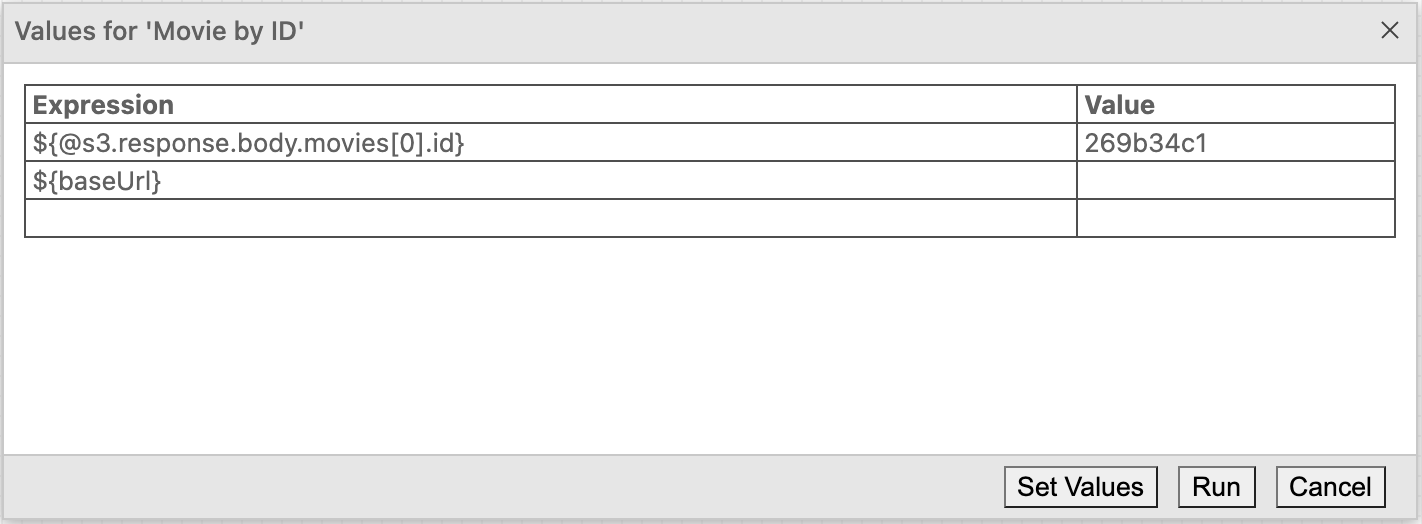
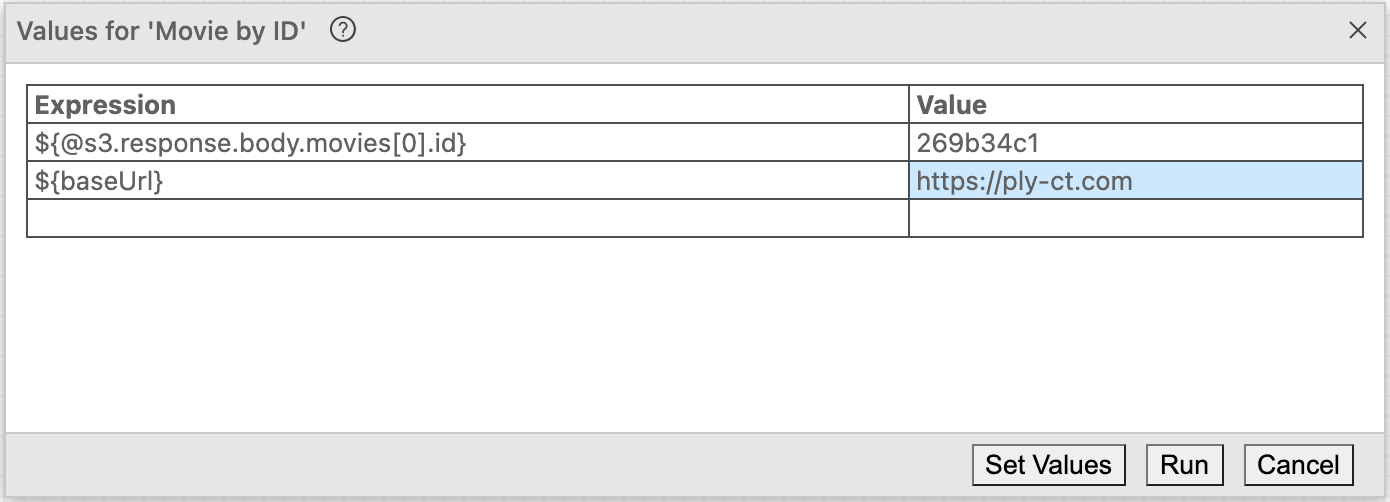
vscode-ply #69

diff --git a/src/flows.ts b/src/flows.ts
@@ -106,10 +106,20 @@ export class FlowSuite extends Suite<Step> {
     }
 
     async runSteps(steps: Step[], runOptions?: RunOptions): Promise<Result[]> {
-        const results: Result[] = [];
+
+        // flow-configured values
+        if (this.plyFlow.flow.attributes?.values) {
+            const rows = JSON.parse(this.plyFlow.flow.attributes?.values);
+            for (const row of rows) {
+                (this.runtime.values as any)[row[0]] = row[1];
+            }
+        }
+
+        // run values override even flow-configured vals
         if (runOptions?.values) {
             this.runtime.values = { ...this.runtime.values, ...runOptions.values };
         }
+
         const requestSuite = new Suite<Request>(
             this.plyFlow.name,
             'request',
@@ -130,6 +140,8 @@ export class FlowSuite extends Suite<Step> {
             this.runtime.results.expected.write('');
             runOptions.createExpected = true;
         }
+
+        const results: Result[] = [];
         // emit start event for synthetic flow
         this.emitter?.emit('flow', this.plyFlow.flowEvent('start', 'flow', this.plyFlow.instance));
         for (const step of steps) {

diff --git a/docs/topics/quickstart.md b/docs/topics/quickstart.md
@@ -198,9 +198,8 @@ to test it without running the whole flow. Let's run the "Movie by ID" step that
 1. Open get-movies.ply.flow in Select mode.
 1. Right-click on "Movie by ID", and select Run.
 1. This time when you're prompted for values, you'll observe that `${@s3.response.body.movies[0].id}` is required,
-   and that Ply remembers the value from our previous flow run.  
-   <img src="../img/movie-by-id-values.png" alt="Values prompt" width="711px">  
-   For `${baseUrl}` enter {% include copy_to_clipboard.html text="https://ply-ct.com" %}, and run the flow again.
+   and that Ply knows this value from our previous flow run.  
+   <img src="../img/movie-by-id-values.png" alt="Values prompt" width="695px">  
 1. Double-click "Movie by ID" to review its request and response to make sure they're as expected.
    <img src="../img/movie-by-id-response.png" alt="Movie by ID response" width="760px">  
 
